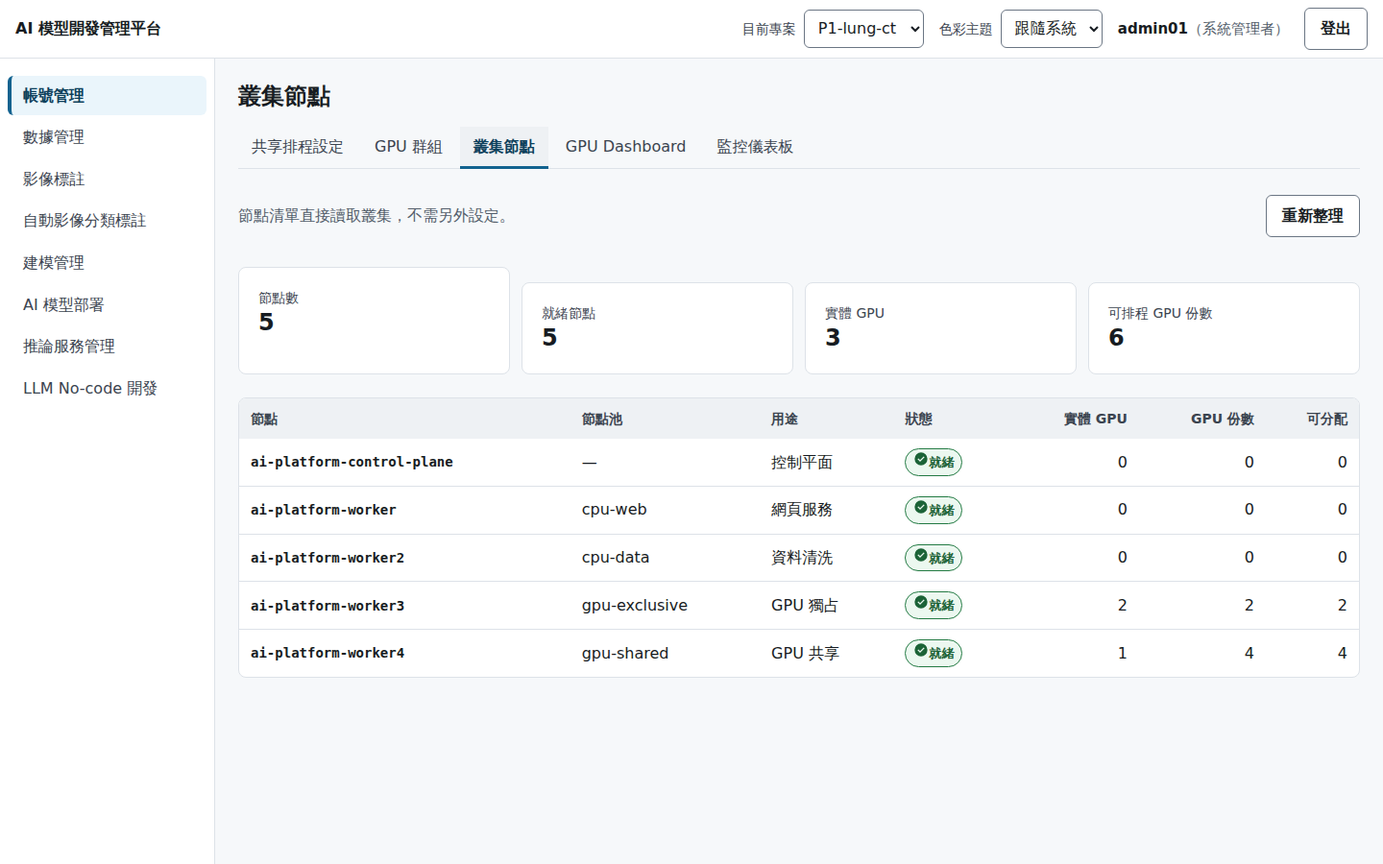
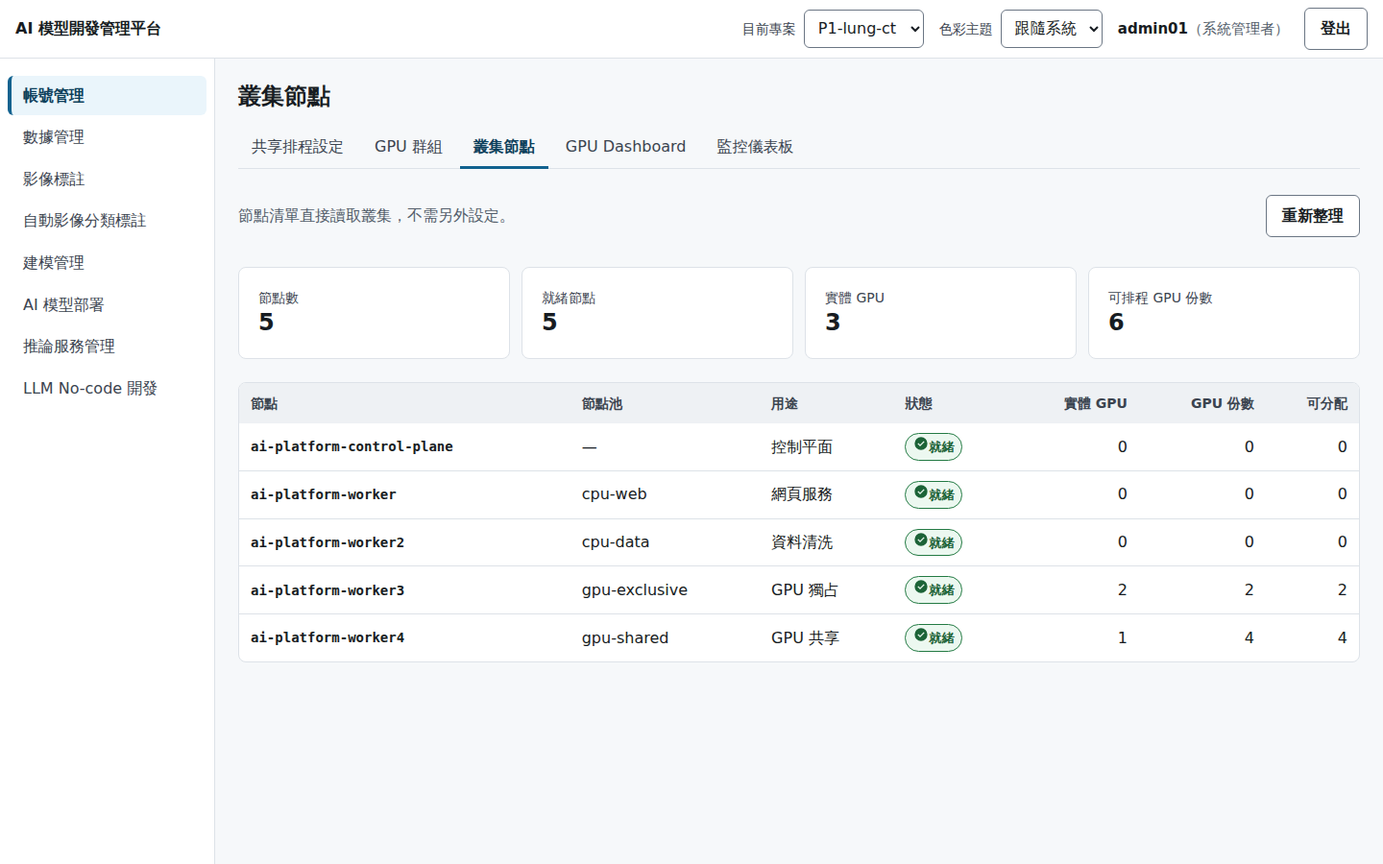
docs(acceptance-kit): re-verify C-01 and C-02 on the updated platform
After merging integration/wp5-8, re-ran the non-disruptive steps of
TC-C01-01..05, 08 and TC-C02-01..03 and refreshed texts and screenshots:
job times now come from Kubernetes, the cancel dialog and grid tiles are
fixed, monitoring coverage passes. TC-C02-04 is rewritten for the three
alert categories and three Alertmanager routes; event 1 and the route
settings were re-verified, the node pause and CPU load are described from
the earlier run.

Claude-Session: https://claude.ai/code/session_018rF2xGYcjqupVEiRGowXba

diff --git a/docs/acceptance-kit/m1/C-02-系統監控.md b/docs/acceptance-kit/m1/C-02-系統監控.md
@@ -1,6 +1,7 @@
 # C-02 系統監控工具：驗收操作劇本
 
 > 2026-10-03 在乙方開發環境（kind 叢集 `ai-platform`）逐步驗證，截圖在 `shots/<TC-ID>/`。
+> 平台更新到 integration/wp5-8（1421f98 之後）後，同日 21:40–22:00 UTC 重新驗證 TC-C02-01、02、03 與 TC-C02-04 的事件 1 和發送路由設定（文字與截圖已更新）；TC-C02-04 的事件 2、3（CPU 負載、節點暫停）本次未重跑，沿用 19:05 的實測結果，並依新規則說明預期差異。
 > **GPU 指標**（使用率、顯存、溫度）需要甲方 GPU 主機上的 NVIDIA DCGM exporter，開發環境沒有；開發環境的 GPU 類只能驗「GPU 份數」（Kubernetes 宣告值）。
 
 ## 共同前置條件
@@ -15,7 +16,7 @@
 
 **合約指標**：「監控目標設定：服務發現或靜態配置」，**抓取指標與設定差異 0**；測試案例：比對 Prometheus 目標與已部署服務清單，差異 0（監控覆蓋檢查）。
 
-> **目前不通過（見文末缺陷 1）**：平台本身（命名空間 `ai-platform` 的 18 個服務）沒有列入監控目標或覆蓋政策，覆蓋檢查 FAIL。下方「預期結果」是修正後應有的樣子；未修正前現場不要執行步驟 4 給甲方看。
+> 10/3 第一次演練時本項 FAIL（平台本身 18 個服務未覆蓋），新版已修正，21:43 重測 PASS。
 
 **前置條件**：共同前置條件 1、3。
 
@@ -39,10 +40,11 @@
 
 **預期結果**（`shots/TC-C02-01/01-Prometheus目標.png`）
 
-- 步驟 1：每個抓取工作都是綠色「UP」，例如 `alertmanager 1 / 1 up`、`cadvisor 5 / 5 up`。
-- 步驟 2（開發環境實測）：`alertmanager up 1`、`cadvisor up 5`、`grafana up 1`、`kube-state-metrics up 1`、`kubelet up 5`、`kueue-controller-manager up 1`、`prometheus up 1`。kubelet、cadvisor 各等於節點數 5。沒有 `down`。
-- 步驟 4 最後一行應為 `PASS  TC-DAILY-02  叢集服務 N：抓取目標 …、容器指標 …、未覆蓋 0；目標異常 0；節點缺口 0`。
-- **開發環境 2026-10-03 實測**：`FAIL  TC-DAILY-02   叢集服務 25：抓取目標 5、容器指標 2、未覆蓋 18；目標異常 0；節點缺口 0`，未覆蓋的 18 個全是 `ai-platform/*`（api、apisix、keycloak、postgres、minio、web…）。這 18 個 Pod 在 Prometheus 都有 cAdvisor 容器指標（`count by (pod)(container_memory_working_set_bytes{namespace="ai-platform",container!=""})` 回 18 筆），只是政策檔沒有列入。
+- 步驟 1：每個抓取工作都是綠色「UP」，例如 `ai-platform-pods 4 / 4 up`、`cadvisor 5 / 5 up`。
+- 步驟 2（開發環境 21:43 實測）：`alertmanager up 1`、`api up 1`、`apisix up 1`、`cadvisor up 5`、`grafana up 1`、`keycloak up 1`、`kube-state-metrics up 1`、`kubelet up 5`、`kueue-controller-manager up 1`、`minio up 1`、`prometheus up 1`。kubelet、cadvisor 各等於節點數 5。沒有 `down`。平台的 api、apisix、keycloak、minio 由 Pod 註記 `prometheus.io/scrape` 宣告，Prometheus 以 `ai-platform-pods` 工作探索（服務發現）。
+- 步驟 4 最後一行（開發環境 21:43 實測）：`PASS  TC-DAILY-02   叢集服務 25：抓取目標 9、容器指標 16、未覆蓋 0；目標異常 0；節點缺口 0`。
+  - 抓取目標 9：monitoring 的 alertmanager、grafana、kube-state-metrics、prometheus，kueue-system 的 kueue-controller-manager，ai-platform 的 api、apisix、keycloak、minio。
+  - 容器指標 16：沒有 `/metrics` 端點的服務（postgres、orthanc、hapi、mlflow、clamav、wiki、ohif、web、fhir-worker、inference 等），以 cAdvisor 的容器 CPU、記憶體指標覆蓋，每個都列在 `platform/compliance/policy/monitoring.yaml` 並註明原因。
 
 **留存證據**：Target health 截圖；`C02-01-*.txt`（含 PASS 行）。
 
@@ -84,7 +86,7 @@
 | 類別 | Prometheus（開發環境實測） | 來源（kubectl） | 差異 |
 |---|---|---|---|
 | 節點 | `count(kube_node_info)` = `5` | 5 | 0 |
-| Pod | `count(kube_pod_info{namespace="ai-platform"})` = `24` | 24 | 0 |
+| Pod | `count(kube_pod_info{namespace="ai-platform"})` = `29` | 29 | 0 |
 | CPU | api 容器 cpu requests = `0.1` | `"requests":{"cpu":"100m",…}` = 0.1 核 | 0 |
 | 記憶體 | api 容器 memory limits = `1610612736` | `"limits":{…,"memory":"1536Mi"}` = 1536×1024² | 0 |
 | 節點 CPU／記憶體 | 每節點 cpu `56`、memory `33519693824` | `56`、`32734076Ki`（×1024 相同） | 0 |
@@ -92,6 +94,7 @@
 | GPU（使用率等） | 甲方：`DCGM_FI_DEV_GPU_UTIL` 等 | 甲方：`nvidia-smi` | 甲方驗；使用率會跳動，比對同一時間點、容許取樣差 |
 
 - 步驟 6：每個 ai-platform Pod 都有曲線（有即時值）。
+- 21:44 重測 3 次（間隔 10 秒）：節點、CPU、記憶體、GPU 份數 3 次都相同；Pod 第 2 次 Prometheus `29`、kubectl `30`（當下有其他人的工作 Pod 剛建立，kube-state-metrics 尚未抓到），第 3 次又一致為 `29`。
 - Pod 數會隨工作變動，抽查時兩邊要在 10 秒內查完；若剛好有 Pod 建立或結束而不同，重查一次並在紀錄註明。
 
 **留存證據**：3 次 × 5 類的截圖與 kubectl 輸出（建議存成 `C02-02-第1次.txt` 等）；比對表。
@@ -128,6 +131,8 @@
 
 **預期結果**（`shots/TC-C02-03/01-匯入JSON.png`、`02-更新頻率改1m後儲存.png`、`03-重新載入後.png`）
 
+- 21:47 新版重測：匯入、改 `1m`、儲存、重新載入結果與下列相同，步驟 9 輸出一致；測試儀表板已刪除。
+
 - 步驟 5：2 種視覺效果都有資料；儀表顯示目前可分配 GPU 份數（開發環境 `6`）。
 - 步驟 8：重新載入後仍是同 2 個面板、同標題，更新頻率顯示 `1m`，網址帶 `refresh=1m`。
 - 步驟 9：`1m [('timeseries', '各命名空間 Pod 記憶體使用'), ('gauge', 'GPU 可分配份數')]`。一致 100%。
@@ -148,69 +153,90 @@
 
 **合約指標**：「異常告警：3 類事件、3 條發送規則、重複告警抑制」，**送出成功 100%，抑制後重複 0**。
 
-告警規則（Prometheus「Alerts」頁可見 3 條，`shots/TC-C02-04/00-Prometheus告警規則.png`）：
+**3 類事件＝3 條告警規則**（Prometheus「Alerts」頁，`shots/TC-C02-04/00-Prometheus告警規則.png`；規則以 `category` 標籤分類）：
 
-| 規則 | 事件類別 | 條件 | 等級 |
-|---|---|---|---|
-| `PlatformJobFailed` | 平台工作失敗 | `platform-jobs` 內有 Job 失敗 | warning |
-| `HighPodCpu` | 資源異常 | 單一 Pod CPU 超過 0.8 核持續 20 秒 | warning |
-| `NodeNotReady` | 節點失聯 | 節點 Ready≠true 持續 10 秒 | critical |
+| 告警規則 | 事件類別（`category`） | 條件 | 等級 | 解除 |
+|---|---|---|---|---|
+| `PlatformJobFailed` | `job-failure` 平台工作失敗 | `platform-jobs` 內有 Job 在**最近 15 分鐘內**失敗 | warning | 15 分鐘後自動解除（每次失敗只寄一封） |
+| `HighPodCpu` | `resource` 資源異常 | 單一 Pod CPU 超過 0.8 核持續 20 秒 | warning | 條件消失後再維持 5 分鐘（`keep_firing_for`） |
+| `NodeNotReady` | `node` 節點失聯 | 節點 Ready≠true 持續 10 秒 | critical | 條件消失後再維持 1 分鐘 |
 
-發送：Alertmanager 以 email 寄到 `ops@ai-platform.local`（開發環境由 Mailpit 收；甲方改為甲方告警管道）。抑制：同一告警群組只寄一次，4 小時內不重寄、不寄「已解除」；節點未就緒時抑制同節點上的 warning。
+**3 條發送規則＝Alertmanager 的 3 條路由**（Alertmanager「Status」頁的設定，`shots/TC-C02-04/05-Alertmanager三條發送路由.png`；設定檔 `platform/deploy/kind/monitoring/alertmanager.yaml`）：
 
-> **說明「3 條發送規則」**：目前是 3 條告警規則共用 1 條發送路由（全部寄給維運信箱）。若甲方要求「3 條發送路由」（例如依等級寄不同收件人），需在 `platform/deploy/kind/monitoring/alertmanager.yaml` 的 `route.routes` 補上，現場前須與甲方確認解讀。
+| 發送規則 | 比對 | 分組（一組一封信） | 收件 | 重寄間隔 |
+|---|---|---|---|---|
+| 1 平台工作失敗 | `category="job-failure"` | alertname、namespace、job_name（每個失敗的 Job 一封） | `ops-mail` → `ops@ai-platform.local` | 4h |
+| 2 資源異常 | `category="resource"` | alertname、namespace、pod、node（每個 Pod 一封） | 同上 | 4h |
+| 3 節點失聯 | `category="node"` | alertname、node（每個節點一封） | 同上 | 4h |
+
+**重複抑制**：同一組只在第一次寄出（`group_wait` 5 秒），持續觸發時 4 小時內不重寄、不寄「已解除」；節點未就緒時抑制同一節點上的 warning（`inhibit_rules`）。開發環境 3 條路由都寄到 Mailpit；甲方可把 3 條路由的 `receiver` 改成不同收件人或管道（例如資源異常寄維運、節點失聯另寄值班）。
 
 **前置條件**
 
-- 事件 2、3 會影響整個叢集（節點 `ai-platform-worker4` 暫停約 3 分鐘，共享池工作無法執行；`cpu-data` 節點一顆核忙碌約 6 分鐘），**只能在沒有其他人使用叢集時執行**。
-- 上一輪的節點告警已結束：Alertmanager 首頁沒有 `NodeNotReady`（`keep_firing_for` 1 分鐘，`HighPodCpu` 5 分鐘）。
-- 檔案 `docs/acceptance-kit/m1/files/TC-C02-04-cpu-burner.yaml`。
+- 事件 2、3 會影響整個叢集（`ai-platform-worker4` 暫停約 3 分鐘，共享池工作無法執行；`cpu-data` 節點一顆核忙碌約 6 分鐘），**只能在沒有其他人使用叢集時執行**。
+- 上一輪的告警已結束：Alertmanager 首頁沒有 `NodeNotReady`、`HighPodCpu`（否則同一組被視為同一件事不重寄）。
+- 有一個可送工作的專案（下例用 `KIT-C-p1`，見 C-01）；檔案 `docs/acceptance-kit/m1/files/TC-C02-04-cpu-burner.yaml`。
 
 **使用資料或帳號**：`admin01`（送失敗工作）；可執行 docker 與 kubectl 的開發機帳號。
 
 **操作步驟**
 
-1. 清空告警收件匣：Mailpit 點「Delete all」並確認（或 `curl -s -X DELETE http://127.0.0.1:38025/api/v1/messages`）。
-2. 事件 1（工作失敗）：平台「目前專案」`KIT-C-p1` →「建模管理」→「專案工作」；「執行秒數」`5`，勾選「讓這件工作以失敗結束（測試佇列不會卡住）」，點「送出工作」。記下 Kubernetes Job 名稱：`kubectl -n platform-jobs get jobs --sort-by=.metadata.creationTimestamp | tail -1`。
-3. 事件 2（CPU 過高）：`kubectl apply -f docs/acceptance-kit/m1/files/TC-C02-04-cpu-burner.yaml`
-4. 事件 3（節點失聯）：開發環境 `docker pause ai-platform-worker4`；甲方環境在一台**不影響驗收進行**的測試節點執行 `sudo systemctl stop kubelet`。
-5. 等 2 分鐘。開 Alertmanager 首頁，截圖（3 個告警群組都在）。
-6. 開 Mailpit，截圖（3 封信）。
-7. 再等 2 分鐘（超過 `group_interval` 1 分鐘＋評估週期），重新整理 Mailpit，截圖，並執行：
+1. 開 Alertmanager「Status」頁，往下捲到 `route:`，截圖 3 條 `routes`（`category="job-failure"`、`"resource"`、`"node"`）。
+2. 清空告警收件匣：Mailpit 左側點「Delete all」→ 對話框「Delete all messages?」點紅色「Delete」（或 `curl -s -X DELETE http://127.0.0.1:38025/api/v1/messages`）。
+3. 事件 1（工作失敗）：平台「目前專案」`KIT-C-p1` →「建模管理」→「專案工作」；「執行秒數」`5`，勾選「讓這件工作以失敗結束（測試佇列不會卡住）」，點「送出工作」。
+4. 事件 2（CPU 過高）：`kubectl apply -f docs/acceptance-kit/m1/files/TC-C02-04-cpu-burner.yaml`
+5. 事件 3（節點失聯）：開發環境 `docker pause ai-platform-worker4`；甲方環境在一台**不影響驗收進行**的測試節點執行 `sudo systemctl stop kubelet`。
+6. 等 2 分鐘。開 Alertmanager 首頁，截圖（3 個告警群組，每組前面標示 `ops-mail`）。
+7. 開 Mailpit，截圖（3 封信）。
+8. 再等 2 分鐘（超過 `group_interval` 1 分鐘＋評估週期），重新整理 Mailpit，截圖，並執行：
    ```bash
    curl -s 'http://127.0.0.1:38025/api/v1/messages?limit=50' | python3 -c 'import sys,json;[print(m["Subject"]) for m in json.load(sys.stdin)["messages"]]' | tee C02-04-mails.txt
    ```
-8. 恢復：`docker unpause ai-platform-worker4`（甲方 `sudo systemctl start kubelet`）；`kubectl -n platform-web delete pod kit-cpu-burner --grace-period=0`；`kubectl wait --for=condition=Ready node --all --timeout=180s`；`kubectl get nodes`。
-9. 刪除失敗的測試 Job（否則 `PlatformJobFailed` 持續觸發，每 4 小時重寄）：`kubectl -n platform-jobs delete job <步驟 2 的 Job 名稱>`。
+9. 恢復：`docker unpause ai-platform-worker4`（甲方 `sudo systemctl start kubelet`）；`kubectl -n platform-web delete pod kit-cpu-burner --grace-period=0`；`kubectl wait --for=condition=Ready node --all --timeout=180s`；`kubectl get nodes`。
+   失敗的測試 Job 不需手動刪除：`PlatformJobFailed` 15 分鐘後自動解除，Job 24 小時後自動清除。
 
-**預期結果**（2026-10-03 19:05 實際執行：`shots/TC-C02-04/00-清空收件匣.png`、`02-Alertmanager三類告警.png`、`03-Mailpit收到3封.png`、`04-等候2分鐘後仍3封.png`）
+**預期結果**
 
-- 步驟 5：Alertmanager 有 `alertname="PlatformJobFailed" job_name="job-…"`、`alertname="HighPodCpu" pod="kit-cpu-burner"`、`alertname="NodeNotReady" node="ai-platform-worker4"`。
-- 步驟 6、7：Mailpit 恰好 3 封，寄件者 `alertmanager@ai-platform.local`、收件者 `ops@ai-platform.local`，主旨：
-  - `[FIRING:1] PlatformJobFailed job-<編號>-<代碼> platform-jobs (… BackoffLimitExceeded warning)`（開發環境實例：`[FIRING:1] PlatformJobFailed job-86-55d7bc platform-jobs (kube-state-metrics.monitoring.svc:8080 kube-state-metrics BackoffLimitExceeded warning)`）
-  - `[FIRING:1] HighPodCpu platform-web ai-platform-worker2 kit-cpu-burner (warning)`
-  - `[FIRING:1] NodeNotReady ai-platform-worker4 (Ready kube-state-metrics.monitoring.svc:8080 kube-state-metrics critical true)`
-- 開發環境實測到信時間：工作失敗 19:05:30（送出後約 20 秒）、節點失聯 19:06:00（暫停後約 50 秒）、CPU 過高 19:06:40（約 90 秒）。所以步驟 5 至少等 2 分鐘。
-- 步驟 7 等候後仍是 3 封（19:08:46 再查，`total 3`，3 個告警仍在觸發中）：送出成功 3/3＝100%，重複 0。
-- Alertmanager 首頁會同時看到之前留下的 `PlatformJobFailed` 群組（舊的失敗 Job），屬缺陷 2；現場前先依步驟 9 清除舊失敗 Job。
-- 步驟 8：5 個節點都 `Ready`，`kit-cpu-burner` 已刪除。
+- 步驟 1：3 條路由如上表（**21:58 新版重新驗證**，`shots/TC-C02-04/05-Alertmanager三條發送路由.png`）。
+- 步驟 6：Alertmanager 有 3 組：`alertname="PlatformJobFailed" job_name="job-…" namespace="platform-jobs"`、`alertname="HighPodCpu" namespace="platform-web" node="ai-platform-worker2" pod="kit-cpu-burner"`、`alertname="NodeNotReady" node="ai-platform-worker4"`（分組欄位即各路由的 `group_by`）。
+- 步驟 7、8：Mailpit 恰好 3 封，寄件者 `alertmanager@ai-platform.local`、收件者 `ops@ai-platform.local`。新版主旨括號內多了事件類別：
+  - `[FIRING:1] PlatformJobFailed job-<編號>-<代碼> platform-jobs (job-failure kube-state-metrics.monitoring.svc:8080 kube-state-metrics BackoffLimitExceeded warning)`
+  - `[FIRING:1] HighPodCpu platform-web ai-platform-worker2 kit-cpu-burner (resource warning)`
+  - `[FIRING:1] NodeNotReady ai-platform-worker4 (node Ready kube-state-metrics.monitoring.svc:8080 kube-state-metrics critical true)`
+- 步驟 8 等候後仍是 3 封：送出成功 3/3＝100%，重複 0。
+- 步驟 9：5 個節點都 `Ready`，`kit-cpu-burner` 已刪除。
 
-**留存證據**：Alertmanager、Mailpit（步驟 6、7）截圖；`C02-04-mails.txt`；恢復後 `kubectl get nodes` 輸出。
+**驗證紀錄**
+
+| 部分 | 何時驗證 | 結果 |
+|---|---|---|
+| 3 條發送路由設定（步驟 1） | 21:58 新版 | 3 條 `routes` 與上表一致 |
+| 事件 1 工作失敗（新規則） | 21:55 新版（工作 128） | 21:55:25 開始觸發，21:55:30 收到 1 封 `[FIRING:1] PlatformJobFailed job-128-0117ac platform-jobs (job-failure …)`；Alertmanager 該組標籤 `alertname、job_name、namespace`，接收者 `ops-mail`（`shots/TC-C02-04/01-事件1工作失敗信.png`、`06-事件1告警群組.png`） |
+| 事件 1＋2＋3 同時、3 封不重複 | 19:05 舊版（1 條路由） | 工作失敗 19:05:30、節點失聯 19:06:00、CPU 過高 19:06:40 各收到 1 封；19:08:46 再查仍 3 封（`shots/TC-C02-04/02-Alertmanager三類告警.png`、`03-Mailpit收到3封.png`、`04-等候2分鐘後仍3封.png`，主旨為舊格式，沒有類別字樣）。本次依協調**未重跑**事件 2、3 |
+| 事件 1＋2＋3（新版，他人執行） | 21:38 新版，協調者跑自動測試時 | Mailpit 收到 `PlatformJobFailed job-1-007cd3 (job-failure …)`、`NodeNotReady ai-platform-worker4 (node …)`、`HighPodCpu … cpu-burner-78461 (resource warning)` 各 1 封，佐證新路由 3 類都會送出 |
 
 **若結果不符**
 
-- 少了 NodeNotReady：上一輪同節點告警仍在 `keep_firing_for` 期間，被視為同一件事不重寄；等 Alertmanager 沒有該告警後重做。
-- 少了 HighPodCpu：節點 CPU 不足使忙迴圈達不到 0.8 核（`kubectl top` 不可用時看 Prometheus `rate(container_cpu_usage_seconds_total{pod="kit-cpu-burner"}[1m])`）。
-- 信件重複：查 `alertmanager.yaml` 的 `repeat_interval` 與 `group_by`；Alertmanager 重啟會清掉通知紀錄而重寄。
+- 少了 NodeNotReady 或 HighPodCpu：上一輪同節點／同 Pod 告警仍在 `keep_firing_for` 期間，被視為同一件事不重寄；等 Alertmanager 首頁沒有該告警後重做。
+- 少了 HighPodCpu：節點 CPU 不足使忙迴圈達不到 0.8 核，看 Prometheus `rate(container_cpu_usage_seconds_total{pod="kit-cpu-burner"}[1m])`。
+- 少了 PlatformJobFailed：工作失敗距今已超過 15 分鐘（規則只看最近 15 分鐘的失敗），重送一件失敗工作。
+- 主旨沒有 `job-failure`／`resource`／`node`：Alertmanager 或 Prometheus 仍是舊設定，`kubectl -n monitoring rollout restart deploy/prometheus deploy/alertmanager` 後在「Status」頁確認。
+- 信件重複：查各路由的 `repeat_interval` 與 `group_by`；Alertmanager 重啟會清掉通知紀錄而重寄。
 - 甲方收不到：SMTP 設定（`smtp_smarthost`）或甲方郵件閘道擋信，查 `kubectl -n monitoring logs deploy/alertmanager | grep -i notify`。
 
-**開發環境與甲方環境的差異**：開發環境以 `docker pause` 模擬節點失聯、Mailpit 收信；甲方以停止測試節點 kubelet 模擬，收件為甲方指定告警管道（《應備事項需求函》10/12 前提供）。
+**開發環境與甲方環境的差異**：開發環境以 `docker pause` 模擬節點失聯、3 條路由都寄到 Mailpit；甲方以停止測試節點 kubelet 模擬，收件為甲方指定告警管道（《應備事項需求函》10/12 前提供），可依甲方要求把 3 條路由寄給不同收件人。
 
 ---
 
-## 本次演練發現的問題（2026-10-03）
+## 演練發現的問題
 
-1. **監控覆蓋不含平台本身**（嚴重，阻擋 TC-C02-01）：平台改部署到 Kubernetes（命名空間 `ai-platform`）後，`platform/compliance/policy/monitoring.yaml` 與 Prometheus 抓取設定沒有跟著更新。`uv run python -m compliance monitoring` 回 `FAIL … 未覆蓋 18`。自動測試 `test_tc_c02_01` 只檢查 `monitoring`、`kueue-system`、`platform-web` 三個命名空間，所以測試通過但實際部署不通過。修正方向：為有 `/metrics` 的服務（APISIX、Keycloak、MinIO、平台 API 等）加抓取工作，其餘列入 `container_metrics_only`，並把 `ai-platform` 加進測試的命名空間清單。
-2. **失敗的工作每 4 小時重寄告警**（一般，影響「抑制後重複 0」的觀感）：失敗的 Kubernetes Job 不會被清除，`PlatformJobFailed` 一直處於觸發中，Alertmanager 依 `repeat_interval: 4h` 重寄。Mailpit 實例（UTC）：`job-30-59897a` 在 09:18、13:18、17:18，`job-31-971b07` 在 09:22、13:22、17:22，各收到 3 封。驗收前須清除舊失敗 Job，或改規則只看最近失敗（例如 `changes(kube_job_status_failed[10m]) > 0`）。
-3. Mailpit 另有 09:01 的 `HighPodCpu` 告警（`monitoring/grafana-…`、`kube-system/etcd-…`），開發機忙碌時會出現，現場前先清空收件匣。
+第一次演練（10/3 19:00 前）發現下列 1、2，已在 integration/wp5-8（1421f98 之後）修正並於 21:40 後重新驗證：
+
+1. ~~監控覆蓋不含平台本身（`compliance monitoring` FAIL，未覆蓋 18；`test_tc_c02_01` 只查 3 個命名空間）~~（已修正：抓取目標 9、容器指標 16、未覆蓋 0，測試已涵蓋 `ai-platform`）。
+2. ~~失敗的工作每 4 小時重寄告警~~（已修正：規則只看最近 15 分鐘的失敗，每次失敗一封、15 分鐘後解除；失敗 Job 24 小時後自動清除）。舊收件匣裡 `job-30-59897a`、`job-31-971b07` 在 09:18、13:18、17:18（UTC）重複的信是修正前留下的。
+3. ~~「3 條發送規則」只有 1 條路由~~（已修正：3 類事件各一條路由）。
+
+仍需注意：
+
 4. GPU 使用率、顯存、溫度指標需甲方安裝 DCGM exporter（已知缺口）。
+5. 開發機忙碌時會出現平台以外的 `HighPodCpu`（10/3 09:01 的 `monitoring/grafana-…`、`kube-system/etcd-…`），現場前先清空收件匣。

diff --git a/docs/acceptance-kit/m1/C-01-GPU與伺服器管理.md b/docs/acceptance-kit/m1/C-01-GPU與伺服器管理.md
@@ -1,13 +1,14 @@
 # C-01 多台 GPU／CPU 伺服器管理：驗收操作劇本
 
-> 網頁步驟已於 2026-10-03 在乙方開發環境（kind 叢集 `ai-platform`、假 GPU）逐步操作驗證，截圖在 `shots/<TC-ID>/`。數字以開發環境為例；甲方環境的節點名稱、GPU 數量不同，見每項的「開發環境與甲方環境的差異」。
+> 網頁步驟已於 2026-10-03 在乙方開發環境（kind 叢集 `ai-platform`、假 GPU）逐步操作驗證，截圖在 `shots/<TC-ID>/`。
+> 平台更新到 integration/wp5-8（1421f98 之後）後，同日 21:40–21:57 UTC 重新驗證 TC-C01-01、02、03、04、05、08（文字與截圖已更新）；TC-C01-06 與 TC-C01-07 沿用第一次演練（19:00 前）的結果，本次未重跑。數字以開發環境為例；甲方環境的節點名稱、GPU 數量不同，見每項的「開發環境與甲方環境的差異」。
 
 ## 共同前置條件
 
 1. 平台已部署並可登入（開發環境：網頁 http://localhost:38982，Gateway http://localhost:38980）。
 2. 操作電腦可執行 `kubectl`，context 指向平台叢集（開發環境：`kind-ai-platform`）。以下指令省略 `--context`。
 3. 叢集內沒有其他人的工作在跑（佇列順序與 GPU Dashboard 會被別人的工作影響）：`kubectl -n platform-jobs get pods --field-selector=status.phase=Running` 應無輸出。
-4. 「排程與叢集」各頁的進入方式：以 `admin01` 登入 → 左側「帳號管理」→ 上方分頁「共享排程設定」→ 頁內分頁「共享排程設定｜GPU 群組｜叢集節點｜GPU Dashboard｜監控儀表板」。
+4. 「排程與叢集」各頁的進入方式：以 `admin01` 登入 → 左側「帳號管理」（上方分頁為「Dashboard 總覽｜Account 帳號｜專案｜專案成員｜標註群組｜稽核紀錄｜共享排程設定｜資料交換（FHIR）」）→ 上方分頁「共享排程設定」→ 頁內分頁「共享排程設定｜GPU 群組｜叢集節點｜GPU Dashboard｜監控儀表板」。
 5. 「專案工作」頁的進入方式：右上「目前專案」選專案 → 左側「建模管理」→ 卡片「專案工作」（網址 `/training/jobs`）。
 6. 網頁閒置一段時間（演練時約 10–15 分鐘）會回到登入頁，點「登入」重新登入即可，已送出的工作不受影響。
 
@@ -36,7 +37,7 @@
 
 **預期結果**（`shots/TC-C01-01/01-叢集節點.png`）
 
-- 上方 4 格：節點數 `5`、就緒節點 `5`、實體 GPU `3`、可排程 GPU 份數 `6`。
+- 上方 4 格（同一高度對齊）：節點數 `5`、就緒節點 `5`、實體 GPU `3`、可排程 GPU 份數 `6`。
 - 表格 5 列：
 
   | 節點 | 節點池 | 用途 | 狀態 | 實體 GPU | GPU 份數 | 可分配 |
@@ -154,7 +155,7 @@
 - 送出時錯誤「排程服務尚未設定」（503）：平台 API 沒有連到叢集（`JOB_BACKEND` 不是 `kubernetes`）。
 - Job 一直「排隊中」：同池 GPU 被其他工作占用；`kubectl get clusterqueues` 看 PENDING WORKLOADS。
 
-**開發環境與甲方環境的差異**：專案編號（42–44）與工作編號依環境不同；甲方 GPU 為真實卡。
+**開發環境與甲方環境的差異**：專案編號（開發環境重測時為 76–78）與工作編號依環境不同；甲方 GPU 為真實卡。
 
 ---
 
@@ -162,7 +163,7 @@
 
 **合約指標**：「GPU Dashboard：每張 GPU 顯示 Project ID、Training ID、使用者」，**抽查 3 組，差異 0**。
 
-**前置條件**：TC-C01-03 已建立 3 個專案；把 3 個不同帳號加入 3 個專案（使用者欄才會不同）：左側「帳號管理」→ 分頁「專案成員」→ 在「設定專案成員」表單選「專案」`KIT-C-p1`、「帳號」`ra01`、「角色」`Research Assistant` → 點「儲存成員設定」；同法 `KIT-C-p2`／`ca01`／`Coder Assistant`、`KIT-C-p3`／`pi01`／`Principal Investigator`。出現「完成：已將「ra01」設定為「KIT-C-p1」的 Research Assistant」等訊息。
+**前置條件**：TC-C01-03 已建立 3 個專案；把 3 個不同帳號加入 3 個專案（使用者欄才會不同）：左側「帳號管理」→ 分頁「專案成員」→ 上方「專案」選 `KIT-C-p1`（下方列出該專案目前成員）→ 在「新增或調整成員」區塊選「帳號」`ra01`、「角色」`Research Assistant` → 點「加入專案」；同法 `KIT-C-p2`／`ca01`／`Coder Assistant`、`KIT-C-p3`／`pi01`／`Principal Investigator`。出現「完成：已將「ra01」設定為「KIT-C-p1」的 Research Assistant（權限：Project、Labeling、Training、Prediction）」等訊息，成員列表多一列。
 
 **使用資料或帳號**：`ra01`、`ca01`、`pi01`（開發環境密碼 `Dev-Passw0rd!`），各用一個瀏覽器視窗（或無痕視窗）登入；`admin01` 看 Dashboard。
 
@@ -180,14 +181,14 @@
 
 **預期結果**（`shots/TC-C01-04/01-GPU-Dashboard-3件.png`）
 
-- 上方 3 張卡：`gpu-exclusive · GPU 0`「使用中 1／1 份」`工作 70（ra01）`；`gpu-exclusive · GPU 1`「使用中 1／1 份」`工作 72（pi01）`；`gpu-shared · GPU 0`「使用中 1／4 份」`工作 71（ca01）`＋3 格「閒置」。
+- 上方 3 張卡（同一高度對齊）：`gpu-exclusive · GPU 0`「使用中 1／1 份」`工作 121（ra01）`；`gpu-exclusive · GPU 1`「使用中 1／1 份」`工作 123（pi01）`；`gpu-shared · GPU 0`「使用中 1／4 份」`工作 122（ca01）`＋3 格「閒置」。
 - 表格（開發環境實測）：
 
   | 節點 | GPU 編號 | 時間片 | 專案 | Project ID | Job ID | Training ID | 使用者 |
   |---|---|---|---|---|---|---|---|
-  | ai-platform-worker3 | 0 | 0 | KIT-C-p1 | 42 | 70 | 70 | ra01 |
-  | ai-platform-worker3 | 1 | 0 | KIT-C-p3 | 44 | 72 | 72 | pi01 |
-  | ai-platform-worker4 | 0 | 0 | KIT-C-p2 | 43 | 71 | 71 | ca01 |
+  | ai-platform-worker3 | 0 | 0 | KIT-C-p1 | 76 | 121 | 121 | ra01 |
+  | ai-platform-worker3 | 1 | 0 | KIT-C-p3 | 78 | 123 | 123 | pi01 |
+  | ai-platform-worker4 | 0 | 0 | KIT-C-p2 | 77 | 122 | 122 | ca01 |
 
 - 步驟 5 的 Pod 標籤與節點和表格完全相同。3 組差異 0。
 
@@ -197,7 +198,7 @@
 
 - 第 3 件沒出現：GPU 被占用而排隊中，等前面工作結束或改用較短秒數重做。
 - 使用者都是 admin01：步驟 1–3 誤用 admin01 送出。
-- 「專案」欄顯示「專案 42」而不是名稱：admin01 的專案清單未更新，重新整理頁面。
+- 「專案」欄顯示「專案 76」而不是名稱：admin01 的專案清單未更新，重新整理頁面。
 
 **開發環境與甲方環境的差異**：開發環境「GPU 編號／時間片」由工作開始時間推算（頁面上已註明）；甲方環境實際 GPU 編號以 `nvidia-smi` 對照（`kubectl exec <pod> -- nvidia-smi -L`，需 GPU 映像）。GPU 使用率需 DCGM，見 C-02。
 
@@ -217,28 +218,31 @@
 2. 「工作種類」選 `訓練（GPU）`，「執行秒數」輸入 `30`。
 3. 連續點「送出工作」3 次（每次間隔約 1 秒）。
 4. 立即截圖工作列表。
-5. 等約 70 秒（列表每 2 秒自動更新），3 件都「已完成」後再截圖。
-6. 執行（叢集實際開始與結束時間）：
+5. 等約 70 秒（列表每 2 秒自動更新），3 件都「已完成」後再截圖。列表上方註明「開始與結束時間是叢集實際啟動與結束工作的時間（不是畫面更新的時間），可與叢集紀錄比對。」，**畫面上的「開始時間」即可判斷順序**。
+6. （與叢集比對，選做）執行：
    ```bash
-   kubectl -n platform-jobs get pods -l 'platform/job-id in (<編號1>,<編號2>,<編號3>)' --sort-by=.metadata.creationTimestamp -o custom-columns='JOB:.metadata.labels.platform/job-id,節點:.spec.nodeName,開始:.status.startTime,結束:.status.containerStatuses[0].state.terminated.finishedAt,狀態:.status.phase' | tee C01-05-order.txt
+   kubectl -n platform-jobs get pods -l 'platform/job-id in (<編號1>,<編號2>,<編號3>)' --sort-by=.metadata.creationTimestamp -o custom-columns='JOB:.metadata.labels.platform/job-id,節點:.spec.nodeName,容器開始:.status.containerStatuses[0].state.terminated.startedAt,狀態:.status.phase' | tee C01-05-order.txt
+   kubectl -n platform-jobs get jobs -l 'platform/job-id in (<編號1>,<編號2>,<編號3>)' -o custom-columns='JOB:.metadata.name,完成:.status.completionTime' | tee -a C01-05-order.txt
    ```
 
 **預期結果**（`shots/TC-C01-05/01-第3件排隊中.png`、`02-3件依序完成.png`）
 
 - 步驟 4：前 2 件「執行中」，第 3 件「排隊中」。
 - 步驟 5：3 件都「已完成」，沒有消失或失敗。
-- 步驟 6（開發環境實測，工作 73–75）：
-  ```text
-  JOB   節點                  開始                   結束                   狀態
-  73    ai-platform-worker3   2026-10-03T18:43:14Z   2026-10-03T18:43:45Z   Succeeded
-  74    ai-platform-worker3   2026-10-03T18:43:15Z   2026-10-03T18:43:46Z   Succeeded
-  75    ai-platform-worker3   2026-10-03T18:43:48Z   2026-10-03T18:44:19Z   Succeeded
-  ```
-  開始時間依送出順序遞增；第 3 件在前兩件之一結束（18:43:45）之後才開始。順序不符 0、遺失 0。
+- 步驟 5 畫面（開發環境 21:53 重測，工作 124–126；畫面時間為瀏覽器時區，開發機為 UTC）：
+
+  | 工作 ID | 狀態 | 建立時間 | 開始時間 | 結束時間 |
+  |---|---|---|---|---|
+  | 124 | 已完成 | 21:53:12 | 21:53:13 | 21:53:46 |
+  | 125 | 已完成 | 21:53:13 | 21:53:14 | 21:53:47 |
+  | 126 | 已完成 | 21:53:15 | 21:53:46 | 21:54:19 |
+
+  開始時間依送出順序遞增；第 3 件在第 1 件結束（21:53:46）時才開始。順序不符 0、遺失 0。
+- 步驟 6：容器開始 `21:53:13Z`、`21:53:14Z`、`21:53:46Z`，Job 完成 `21:53:46Z`、`21:53:47Z`、`21:54:19Z`，與畫面一致（畫面的開始＝容器開始、結束＝Job 完成）。
 
 **留存證據**：兩張截圖；`C01-05-order.txt`。
 
-**若結果不符**：第 3 件也立即執行：獨占池卡數大於 2（甲方環境），改為送出「卡數＋1」件；順序判定**以步驟 6 的叢集時間為準**，不要用網頁的「開始時間」（見下方缺陷 1）。
+**若結果不符**：第 3 件也立即執行：獨占池卡數大於 2（甲方環境），改為送出「卡數＋1」件；畫面時間與步驟 6 不一致時，以叢集時間為準並回報（10/3 第一次演練時曾有此缺陷，已修正）。
 
 **開發環境與甲方環境的差異**：開發環境獨占池 2 張假 GPU；甲方送出件數＝獨占池卡數＋1。
 
@@ -330,9 +334,9 @@
 2. 「執行秒數」輸入 `30`，勾選「讓這件工作以失敗結束（測試佇列不會卡住）」，點「送出工作」（工作 B，會失敗）。
 3. 取消勾選，「執行秒數」輸入 `10`，點「送出工作」兩次（工作 C、D）。
 4. 確認 C、D 為「排隊中」後，在工作 C 那列點「取消」。
-5. 對話框「取消工作」出現「確定要取消工作 <C>（排隊中）嗎？取消後無法恢復。」，點紅色「確認取消工作」（不是左邊的「取消」，那是關閉對話框）。截圖。
-6. 等約 100 秒到 A 完成，截圖。
-7. 執行：
+5. 對話框「取消工作」出現「確定要取消工作 <C>（排隊中）嗎？取消後無法恢復。」與兩個按鈕「不要取消」「確定取消工作」，點紅色「確定取消工作」。截圖。
+6. 等約 100 秒到 A 完成，截圖。畫面上的開始／結束時間是叢集實際時間，可直接判斷 D 是否在 B 失敗後接上。
+7. （與叢集比對，選做）執行：
    ```bash
    kubectl -n platform-jobs get pods -l 'platform/job-id in (<A>,<B>,<C>,<D>)' --sort-by=.metadata.creationTimestamp -o custom-columns='JOB:.metadata.labels.platform/job-id,開始:.status.startTime,結束:.status.containerStatuses[0].state.terminated.finishedAt,狀態:.status.phase' | tee C01-08.txt
    ```
@@ -340,15 +344,17 @@
 **預期結果**（`shots/TC-C01-08/01-取消確認.png`、`02-取消與失敗後下一件完成.png`）
 
 - 步驟 5：綠色「完成：已取消工作 <C>」，C 狀態「已取消」。
-- 步驟 6：A「已完成」、B「失敗」（訊息 `工作失敗：BackoffLimitExceeded`）、C「已取消」（開始時間「—」）、D「已完成」。
-- 步驟 7（開發環境實測，A=85、B=86、C=87、D=88）：
-  ```text
-  JOB   開始                   結束                   狀態
-  85    2026-10-03T18:46:33Z   2026-10-03T18:48:03Z   Succeeded
-  86    2026-10-03T18:46:34Z   2026-10-03T18:47:04Z   Failed
-  88    2026-10-03T18:47:07Z   2026-10-03T18:47:17Z   Succeeded
-  ```
-  C（87）沒有 Pod；D 在 B 失敗讓出卡（18:47:04）後 3 秒開始，早於 A 結束（18:48:03）。佇列沒有卡住。
+- 步驟 6 畫面（開發環境 21:54 重測，A=127、B=128、C=129、D=130）：
+
+  | 工作 ID | 狀態 | 開始時間 | 結束時間 | 訊息 |
+  |---|---|---|---|---|
+  | 130（D） | 已完成 | 21:55:15 | 21:55:28 | — |
+  | 129（C） | 已取消 | — | 21:55:01 | — |
+  | 128（B） | 失敗 | 21:54:42 | 21:55:15 | 工作失敗：BackoffLimitExceeded |
+  | 127（A） | 已完成 | 21:54:41 | 21:56:13 | — |
+
+  D 在 B 失敗（21:55:15）時立即開始，早於 A 結束（21:56:13）。佇列沒有卡住。成功的工作「訊息」欄都是「—」。
+- 步驟 7：C（129）沒有 Pod；127、128、130 的 Pod 開始 `21:54:40Z`、`21:54:42Z`、`21:55:15Z`，與畫面相符（畫面開始取容器實際啟動時間，差 1 秒內）。
 
 **留存證據**：兩張截圖；`C01-08.txt`。
 
@@ -366,15 +372,21 @@
 
 ## 驗收後清除
 
-1. 「帳號管理」→「專案成員」：分別選 `KIT-C-p1`／`ra01`、`KIT-C-p2`／`ca01`、`KIT-C-p3`／`pi01`，點「從專案移除」。
+1. 「帳號管理」→「專案成員」：上方「專案」選 `KIT-C-p1`，在成員列表 `ra01` 那列點「移除」→ 對話框點「確認移除」；同法 `KIT-C-p2`／`ca01`、`KIT-C-p3`／`pi01`。
 2. 「帳號管理」→「專案」：`KIT-C-p1`、`KIT-C-p2`、`KIT-C-p3` 各點「刪除」並確認。
 3. 「共享排程設定」→「GPU 群組」：`KIT-C-high`、`KIT-C-low` 各點「刪除」並確認（仍有專案綁定時無法刪除，所以先刪專案）。
-4. 刪除測試產生的失敗 Job，避免 `PlatformJobFailed` 告警每 4 小時重寄（見 C-02 缺陷）：`kubectl -n platform-jobs delete job <B 的 k8s 名稱>`。
+（失敗的測試 Job 不需手動刪除：新版告警規則每次失敗只寄一封、15 分鐘後自動解除；Job 保留 24 小時供查紀錄後自動清除。）
 
-## 本次演練發現的問題（2026-10-03）
+## 演練發現的問題
 
-1. **工作的「開始時間／結束時間」不是叢集實際時間**（一般）：平台在有人查詢工作列表時才同步狀態，時間記的是「平台發現的時間」。例：工作 70 的 Pod 18:40:04 開始，網頁顯示 18:41:06；工作 67 實際 18:38:48 結束，網頁顯示 18:40:02。影響 TC-C01-05 順序判斷（本劇本改以 kubectl 時間為準）與甲方對等候時間的觀感。程式：`platform/api/app/scheduling/service.py` `_apply` 以 `now` 記錄。截圖：`shots/TC-C01-08/02-取消與失敗後下一件完成.png`。
-2. **已完成的工作留下內部訊息「忽略後端回報的狀態 queued（目前 running）」**（一般）：工作成功完成後「訊息」欄仍顯示這段開發者用語，使用者會以為出錯（工作 70、74、75、76、78、81、83）。來源：`service.py` `sync_job`。截圖同上（訊息欄）。
-3. **「叢集節點」上方數字卡與「GPU Dashboard」GPU 卡第一張比其他張高約 16px**（輕微，畫面）：`app.css` 的 `.section > * + *` 把上邊距套到格線內第 2 張以後的卡片。截圖：`shots/TC-C01-01/01-叢集節點.png`、`shots/TC-C01-04/01-GPU-Dashboard-3件.png`。
-4. **取消確認對話框左鍵也叫「取消」**（輕微，易用性）：列上的「取消」（取消工作）與對話框的「取消」（關閉對話框）同名，演練時誤按一次。建議對話框改為「返回」。截圖：`shots/TC-C01-08/01-取消確認.png`。
+第一次演練（2026-10-03 19:00 前）發現下列 1–4，已在 integration/wp5-8（1421f98 之後）修正，21:40 後重新驗證確認：
+
+1. ~~工作的「開始時間／結束時間」是平台查詢時才記的時間，不是叢集實際時間~~（已修正：現在取 Kubernetes 的容器啟動時間與 Job 完成時間，TC-C01-05 可直接在畫面判斷）。
+2. ~~成功完成的工作「訊息」欄留下開發者用語「忽略後端回報的狀態 queued（目前 running）」~~（已修正：內部訊息不再顯示）。
+3. ~~「叢集節點」數字卡與「GPU Dashboard」GPU 卡第一張比其他張高約 16px~~（已修正，見 `shots/TC-C01-01/01-叢集節點.png`、`shots/TC-C01-04/01-GPU-Dashboard-3件.png`）。
+4. ~~取消確認對話框左鍵也叫「取消」~~（已修正：改為「不要取消」「確定取消工作」，見 `shots/TC-C01-08/01-取消確認.png`）。
+
+仍未解決：
+
 5. 「GPU 群組依等級分群」未實作（已知缺口，見 TC-C01-02）。GPU 群組的「GPU 數量」目前只是記錄，不限制該群組可用的卡數（同池的群組共用同一個 Kueue 佇列與配額）。
+6. 叢集更新映像後，`web` Deployment 沒有自動重啟（映像標籤都是 `:dev`），重測時曾看到舊版網頁；現場部署後要確認 `kubectl -n ai-platform rollout restart deploy/web` 或映像改用版本標籤。
